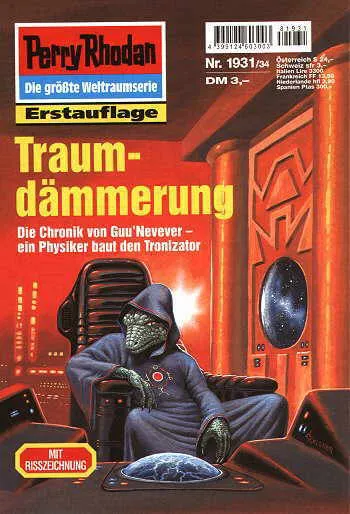
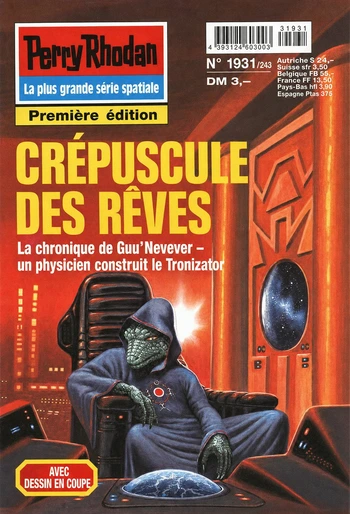
feat: add French covers 1923-1932

diff --git a/src/content/chapitres/de-1926.md b/src/content/chapitres/de-1926.md
@@ -4,7 +4,7 @@ cycleNumber: 29
 chapterNumber: 1926
 type: translation
 originalTitle: "Rekruten für Zophengorn"
-cover: "/images/covers/de-1926.webp"
+cover: "/images/covers/de-1926.webp?v=20260831-1932"
 auteur: "Robert Feldhoff"
 parution: "1998-07-21"
 statut: wip

diff --git a/src/content/chapitres/de-1929.md b/src/content/chapitres/de-1929.md
@@ -4,7 +4,7 @@ cycleNumber: 29
 chapterNumber: 1929
 type: translation
 originalTitle: "Der General der Träumerin"
-cover: "/images/covers/de-1929.webp"
+cover: "/images/covers/de-1929.webp?v=20260831-1932"
 auteur: "H. G. Francis"
 parution: "1998-08-11"
 statut: wip

diff --git a/src/content/chapitres/de-1930.md b/src/content/chapitres/de-1930.md
@@ -4,7 +4,7 @@ cycleNumber: 29
 chapterNumber: 1930
 type: translation
 originalTitle: "Das Geheimnis der Na'Call"
-cover: "/images/covers/de-1930.webp"
+cover: "/images/covers/de-1930.webp?v=20260831-1932"
 auteur: "Peter Terrid"
 parution: "1998-08-18"
 statut: wip

diff --git a/src/content/chapitres/de-1925.md b/src/content/chapitres/de-1925.md
@@ -4,7 +4,7 @@ cycleNumber: 29
 chapterNumber: 1925
 type: translation
 originalTitle: "Fremde über Alashan"
-cover: "/images/covers/de-1925.webp"
+cover: "/images/covers/de-1925.webp?v=20260831-1932"
 auteur: "Horst Hoffmann"
 parution: "1998-07-14"
 statut: wip

diff --git a/src/content/chapitres/de-1928.md b/src/content/chapitres/de-1928.md
@@ -4,7 +4,7 @@ cycleNumber: 29
 chapterNumber: 1928
 type: translation
 originalTitle: "Unheimliche Korrago"
-cover: "/images/covers/de-1928.webp"
+cover: "/images/covers/de-1928.webp?v=20260831-1932"
 auteur: "Hubert Haensel"
 parution: "1998-08-04"
 statut: wip

diff --git a/src/content/chapitres/de-1927.md b/src/content/chapitres/de-1927.md
@@ -4,7 +4,7 @@ cycleNumber: 29
 chapterNumber: 1927
 type: translation
 originalTitle: "Legende der Tujokan"
-cover: "/images/covers/de-1927.webp"
+cover: "/images/covers/de-1927.webp?v=20260831-1932"
 auteur: "Arndt Ellmer"
 parution: "1998-07-28"
 statut: wip

diff --git a/src/content/chapitres/de-1924.md b/src/content/chapitres/de-1924.md
@@ -4,7 +4,7 @@ cycleNumber: 29
 chapterNumber: 1924
 type: translation
 originalTitle: "Intrigen auf Arkon"
-cover: "/images/covers/de-1924.webp"
+cover: "/images/covers/de-1924.webp?v=20260831-1932"
 auteur: "Peter Terrid"
 parution: "1998-07-07"
 statut: wip

diff --git a/src/content/chapitres/de-1923.md b/src/content/chapitres/de-1923.md
@@ -4,7 +4,7 @@ cycleNumber: 29
 chapterNumber: 1923
 type: translation
 originalTitle: "Friedensmission"
-cover: "/images/covers/de-1923.webp"
+cover: "/images/covers/de-1923.webp?v=20260831-1932"
 auteur: "Susan Schwartz"
 parution: "1998-06-30"
 statut: wip

diff --git a/src/content/chapitres/de-1932.md b/src/content/chapitres/de-1932.md
@@ -4,7 +4,7 @@ cycleNumber: 29
 chapterNumber: 1932
 type: translation
 originalTitle: "Schiff am Abgrund"
-cover: "/images/covers/de-1932.webp"
+cover: "/images/covers/de-1932.webp?v=20260831-1932"
 auteur: "Arndt Ellmer"
 parution: "1998-09-01"
 statut: wip

diff --git a/src/content/chapitres/de-1931.md b/src/content/chapitres/de-1931.md
@@ -4,7 +4,7 @@ cycleNumber: 29
 chapterNumber: 1931
 type: translation
 originalTitle: "Traumdämmerung"
-cover: "/images/covers/de-1931.webp"
+cover: "/images/covers/de-1931.webp?v=20260831-1932"
 auteur: "Ernst Vlcek"
 parution: "1998-08-25"
 statut: wip
